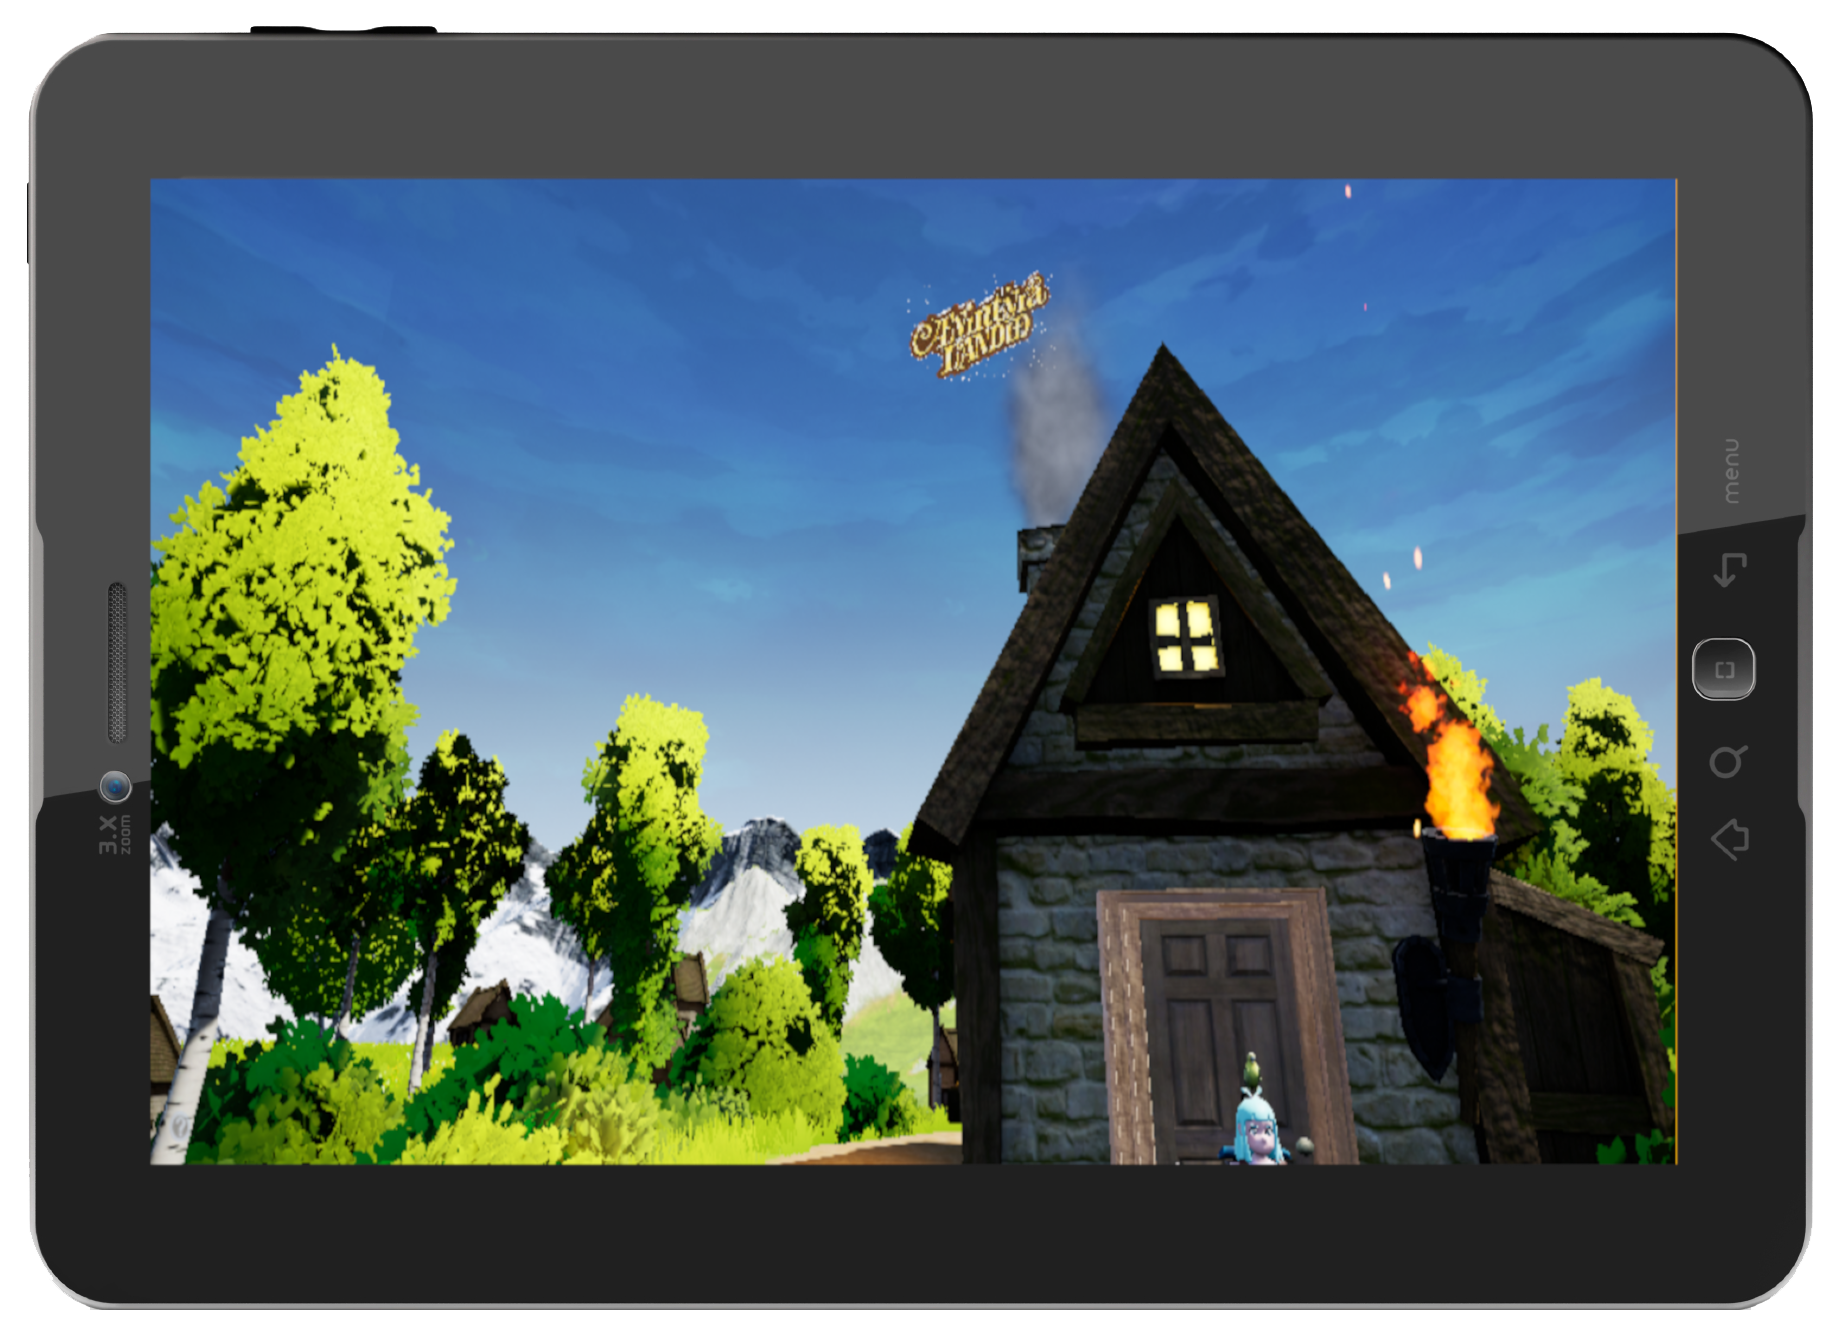
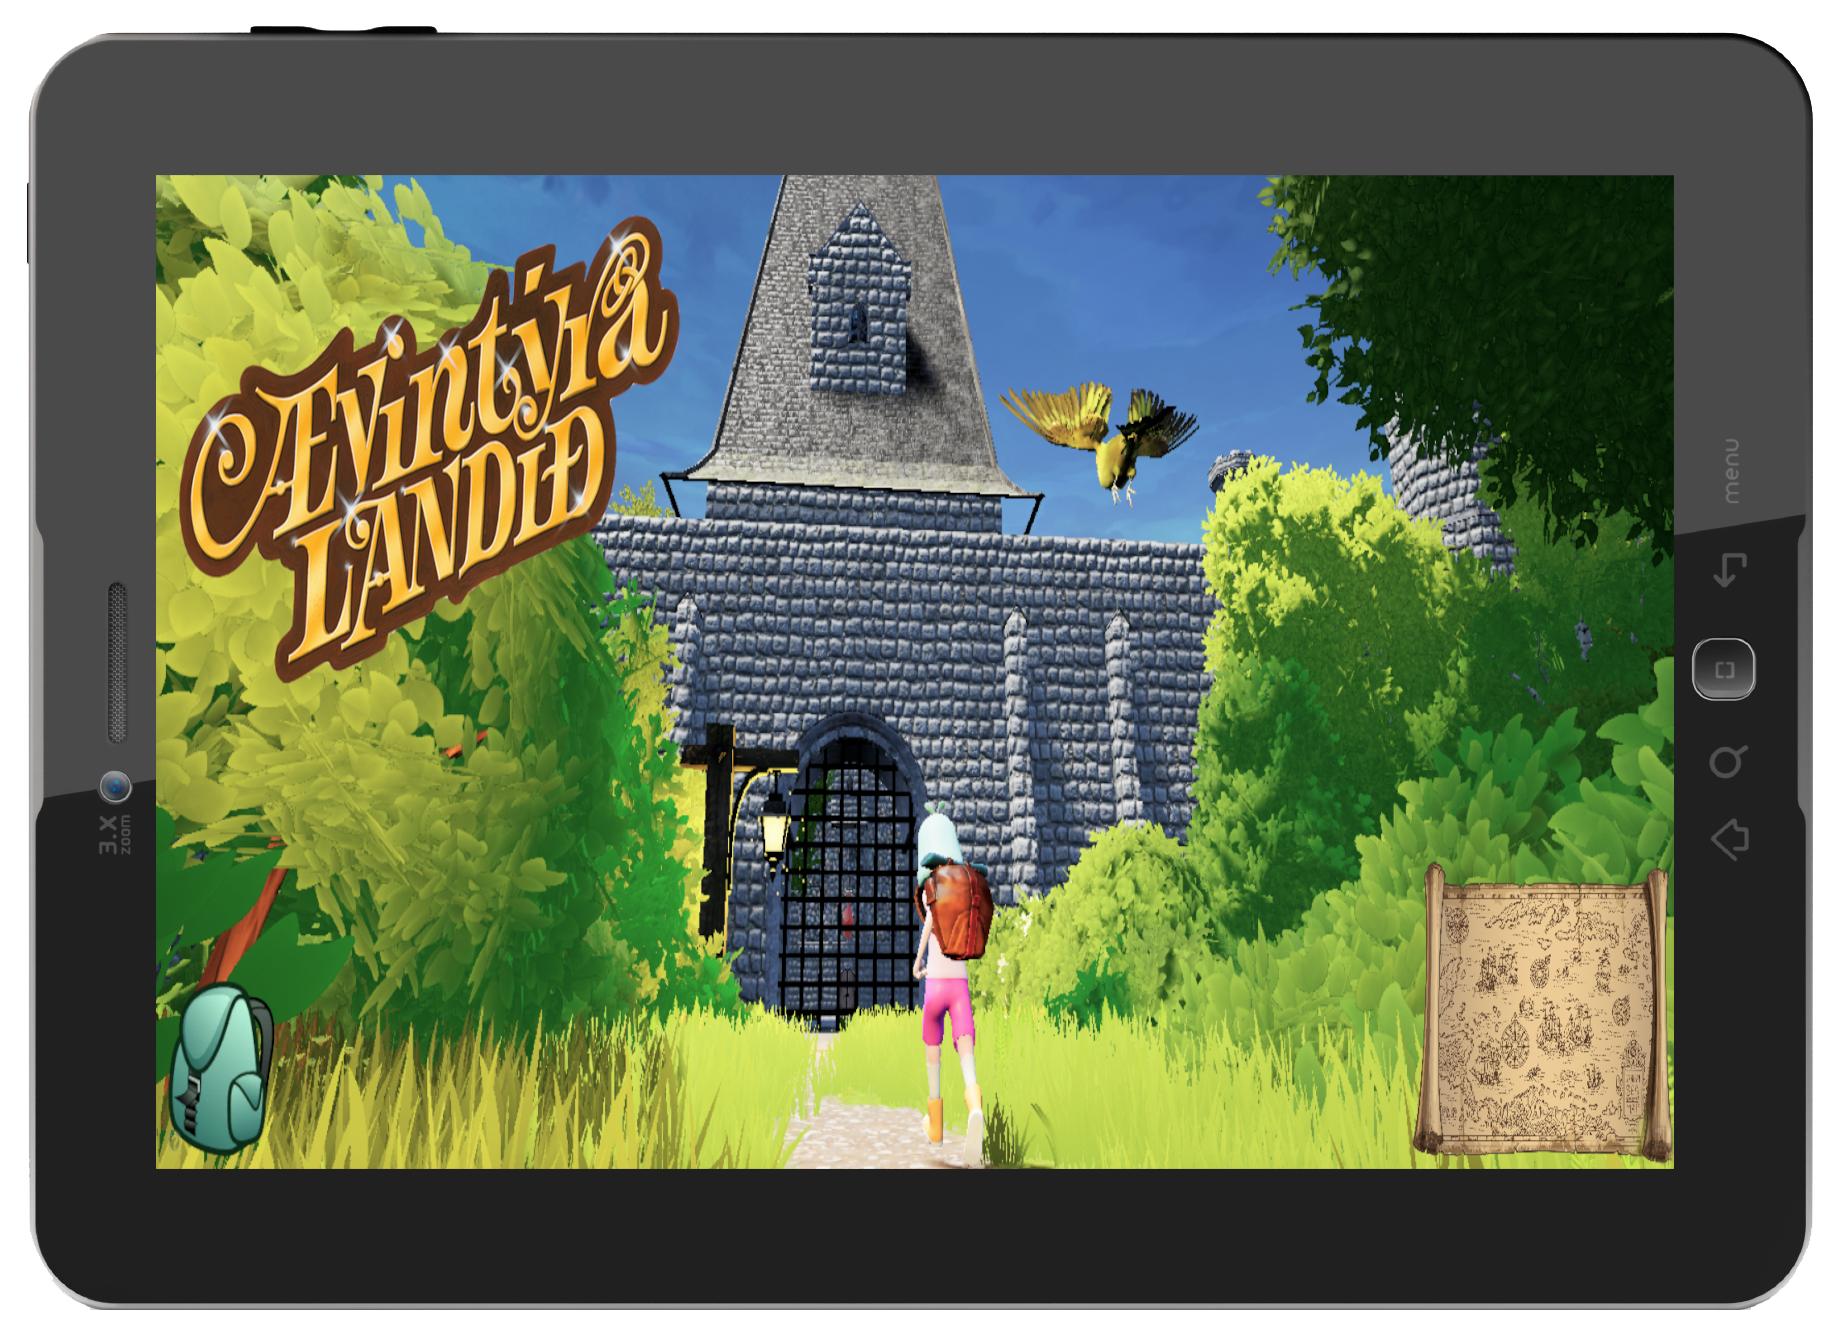
myndir lagaðar, video komið inn.

diff --git a/public/stylesheets/style.css b/public/stylesheets/style.css
@@ -128,9 +128,9 @@ input[type=checkbox]{
   width: 100%;
   height: 90vh;
   z-index: 0;
-  background: -moz-linear-gradient(45deg, #02e1ba 0%,#26c9f2 29%,#d911f2 66%,#ffa079 100%);
-  background: -webkit-linear-gradient(45deg, #02e1ba 0%,#26c9f2 29%,#d911f2 66%,#ffa079 100%);
-  background: linear-gradient(45deg, #02e1ba 0%,#26c9f2 29%,#d911f2 66%,#ffa079 100%);
+  background: -moz-linear-gradient(45deg, #1ff2f2 0%,#26c9f2 29%,#02cccc 66%,#07f5f5 100%);
+  background: -webkit-linear-gradient(45deg, #1ff2f2 0%,#26c9f2 29%,#02cccc 66%,#07f5f5 100%);
+  background: linear-gradient(45deg, #1ff2f2 0%,#26c9f2 29%,#02cccc 66%,#07f5f5 100%);
   background-size: 400% 400%;
   -webkit-animation: Gradient 15s ease infinite;
   -moz-animation: Gradient 15s ease infinite;
@@ -483,15 +483,19 @@ input[type=checkbox]{
 
 @media only screen and (max-width: 900px) {
   .frontpageWrapper {
+    padding-top: 0;
     -webkit-clip-path: polygon(0 0, 100% 0, 100% 56%, 0 100%);
     clip-path: polygon(0 0, 100% 0%, 100% 100%, 0 100%);
   }
 }
 
+
+
 .downloadSection {
   position: relative;
-  margin-top: 10vh;
+  margin-top: 5vh;
   text-align: center;
+  opacity: 0.3;
 }
 
 .appleDownload {
@@ -506,7 +510,33 @@ input[type=checkbox]{
   height: 100px;
 }
 
+.comingSoon {
+  position: relative;
+  margin-top: 15vh;
+  z-index: 4;
+  background: rgba(0,0,0,0.8);
+}
+
+.comingSoonText {
+  padding-top: 30px;
+  position: relative;
+  text-align: center;
+  color: white;
+  font-size: 54px;
+  font-weight: bold;
+}
+
 @media only screen and (max-width: 900px) {
+
+  .comingSoon {
+    margin-top: initial;
+  }
+
+  .comingSoonText {
+    padding-top: 15px;
+    font-size: 32px;
+  }
+
   .downloadSection {
     position: relative;
     margin-top: 0;
@@ -534,10 +564,9 @@ input[type=checkbox]{
   margin-right: 15%;
   margin-left: 15%;
   min-height: 75vh;
-  background: linear-gradient(rgba(0, 0, 0, 0.7), rgba(0, 0, 0, 0.7)), url("../images/Nidurnettanveg.png") center center no-repeat;
   background-size: cover;
   border-radius: 25px;
-
+  background-color: #1ff2f2;
 }
 
 .trailerHeading {
@@ -549,7 +578,7 @@ input[type=checkbox]{
 
 .trailerPlay {
   position: absolute;
-  width: 150px;
+  width: 200px;
   height: 50px;
   background-color: #ff9e0d;
   color: white;
@@ -558,6 +587,12 @@ input[type=checkbox]{
   font-size: 15px;
   bottom: 20%;
   left: 7%;
+}
+
+.trailerVideo {
+  position: relative;
+  min-width: 100%;
+  height: auto;
 }
 
 
@@ -667,7 +702,7 @@ input[type=checkbox]{
 }
 
 .footer-distributed .footer-center i{
-  background-color:  #33383b;
+  background-color:  #26c9f2;
   color: #ffffff;
   font-size: 25px;
   width: 38px;
@@ -749,7 +784,7 @@ input[type=checkbox]{
   width: 35px;
   height: 35px;
   cursor: pointer;
-  background-color:  #33383b;
+  background-color:  #26c9f2;
   border-radius: 2px;
 
   font-size: 20px;
@@ -921,12 +956,14 @@ input[type=checkbox]{
     position: relative;
     background: white;
     min-width: 90%;
-    height: 100vh;
+    height: 40vh;
     margin-left: 5%;
     margin-right: 5%;
+    padding-bottom: 5vh;
   }
 
   .umOkkurTexti {
+    position: relative;
     margin: 15px;
     line-height: 1.5;
     text-align: justify;
@@ -938,8 +975,17 @@ input[type=checkbox]{
     max-width: 100%;
     position: relative;
     margin: auto;
-    height: 30%;
+    height: 50%;
     overflow: hidden;
+  }
+}
+
+@media only screen and (max-width: 600px) {
+  .umOkkurMyndirOgTexti {
+    position: relative;
+    height: 80vh;
+    padding-bottom: 45vh;
+    margin-top: 10vh;
   }
 }
 
@@ -987,7 +1033,7 @@ input[type=checkbox]{
     margin: auto;
     height: 60%;
     overflow: hidden;
-    margin-bottom: 10vh;
+    margin-bottom: 15vh;
   }
 
   /* Hide the images by default */
@@ -1109,9 +1155,9 @@ input[type=checkbox]{
 
 .hafaSambandPage {
   height: 90vh;
-  background: -moz-linear-gradient(45deg, #02e1ba 0%, #26c9f2 29%, #d911f2 66%, #ffa079 100%);
-  background: -webkit-linear-gradient(45deg, #02e1ba 0%,#26c9f2 29%,#d911f2 66%,#ffa079 100%);
-  background: linear-gradient(45deg, #02e1ba 0%,#26c9f2 29%,#d911f2 66%,#ffa079 100%);
+  background: -moz-linear-gradient(45deg, #1ff2f2 0%,#26c9f2 29%,#02cccc 66%,#07f5f5 100%);
+  background: -webkit-linear-gradient(45deg, #1ff2f2 0%,#26c9f2 29%,#02cccc 66%,#07f5f5 100%);
+  background: linear-gradient(45deg, #1ff2f2 0%,#26c9f2 29%,#02cccc 66%,#07f5f5 100%);
   background-size: 400% 400%;
   -webkit-animation: Gradient 15s ease infinite;
   -moz-animation: Gradient 15s ease infinite;

diff --git a/public/stylesheets/timalina.css b/public/stylesheets/timalina.css
@@ -1,5 +1,5 @@
 body {
-    background: linear-gradient(rgba(0, 0, 0, 0.7), rgba(0, 0, 0, 0.7)), url("../images/Dreki&TurnKlippt.png") center center no-repeat;
+    background: linear-gradient(rgba(0, 0, 0, 0.1), rgba(0, 0, 0, 0.1)), url("../images/myndtimalina.png") center center no-repeat;
     background-attachment: fixed;
     background-size: cover;
     overflow-x: hidden;
